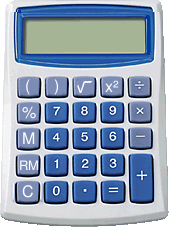
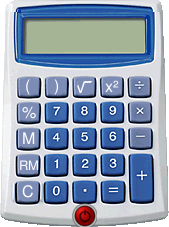
Schaut besser aus

Changed region(s): [[0.4142, 0.8943, 0.5917, 1.0]]

diff --git a/tools/Rechner.html b/tools/Rechner.html
@@ -184,7 +184,7 @@ function RecallMemory() {
 function init() {
 	klammer=0;
 	anzeige=document.rechner.display;
-	window.resizeTo(181, 290);
+	window.resizeTo(172, 295);
 	window.focus();
     document.rechner.display.focus();
 }
@@ -195,7 +195,7 @@ document.onkeyup = TasteLosgelassen;
 //-->
 </script>
 </head>
-<body onLoad="init();" style="padding:0px; margin:0px;">
+<body onLoad="init();" style="padding:0px; margin:0px;"><center>
 <img src="Rechner.png" width="169" height="227" border="0" usemap="#map" />
 <map name="map">
 <!-- #$-:Image Map file created by GIMP Imagemap Plugin -->
@@ -227,10 +227,12 @@ document.onkeyup = TasteLosgelassen;
 <area shape="rect" coords="44,101,68,124"   alt="7"    onClick="addChar('7')" />
 <area shape="rect" coords="71,101,97,124"   alt="8"    onClick="addChar('8')" />
 <area shape="rect" coords="99,101,124,124"  alt="9"    onClick="addChar('9')" />
+<area shape="rect" coords="71,207,97,228"   alt="Quit" onClick="self.close()" />
 </map>
 <div id="display" style="position:absolute; left:28px; z-index:1; top:24px; height:30px; width:100px;">
 <form name="rechner" onSubmit="return Rechnen();"><input style="text-align:right; font-size:13px;" type="text"   size="13" name="display" value="0" readonly="readonly"></form>
 </div> 
 <script language="JavaScript">self.focus()</script>
+</center>
 </body>
 </html>
